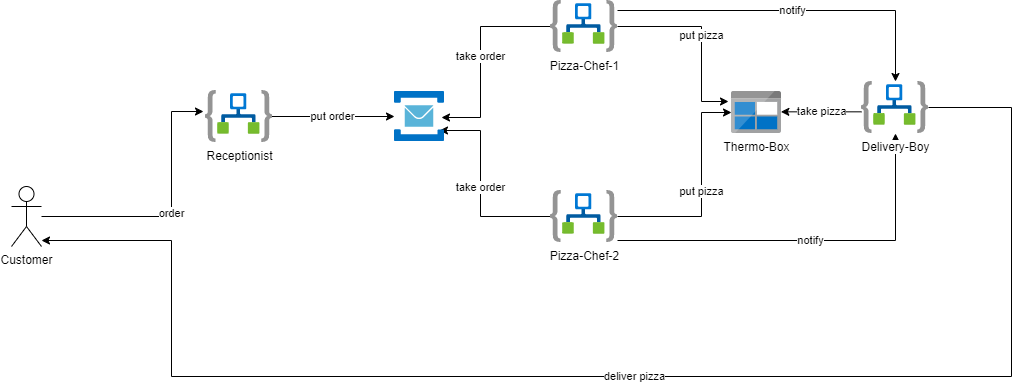
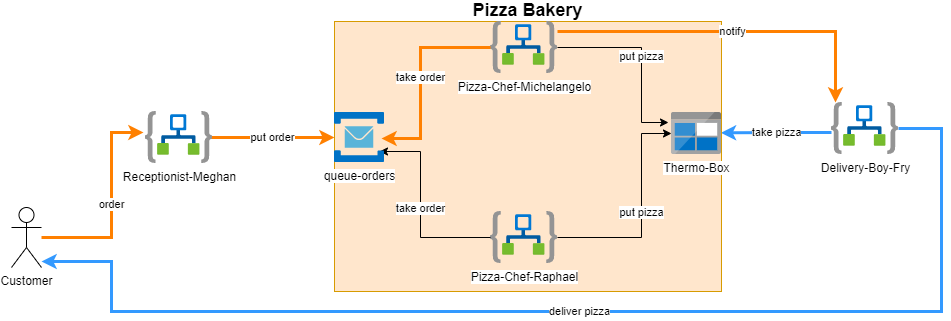
refactor: :recycle: refine deployment for lab-2

diff --git a/lab-2/README.md b/lab-2/README.md
@@ -2,14 +2,42 @@
 
 ![Architecture Lab-1](../docs/static/architecture-Lab-2.png)
 
-### Calling the pizza chef from Postman
+### Deploying the resources
 
-Create a POST request in Postman and add the following json body:
+```bash
+az group create \
+  --name 'pizza-lab-2'\
+  --location westeurope \
+  --tags workshop=azureIntegration
+
+az deployment group create \
+  --resource-group 'pizza-lab-2' \
+  --template-file ./azuredeploy.bicep \
+  --parameters pizzaChefName='michelangelo' \
+      deliveryBoyName='fry' \
+      receptionistName='meghan'
+```
+
+> **Note**: After the deployment succeeded, you need to manually authorize the o365 connection via the Azure portal (Edit API connection/Authorize/Save). You need to use an o365 account. Personal accounts without o365 license won't work.
+
+### Calling the receptionist from Postman
+
+Create a POST request in [Postman](https://www.postman.com/downloads/) and add the following json body:
 
 ```json
 {
   "customer_name": "{{$randomFirstName}}",
   "customer_address": "some.customer@outlook.com",
-  "pizza_type": "Hawaii"
+  "pizza_type": "Tonno"
 }
+```
+
+### Deploying additional pizza chefs
+
+```bash
+az deployment group create \
+  --resource-group 'pizza-lab-2' \
+  --template-file ./pizza-chef.bicep \
+  --parameters pizzaChefName='raphael' \
+      deliveryBoyName='fry'
 ```
